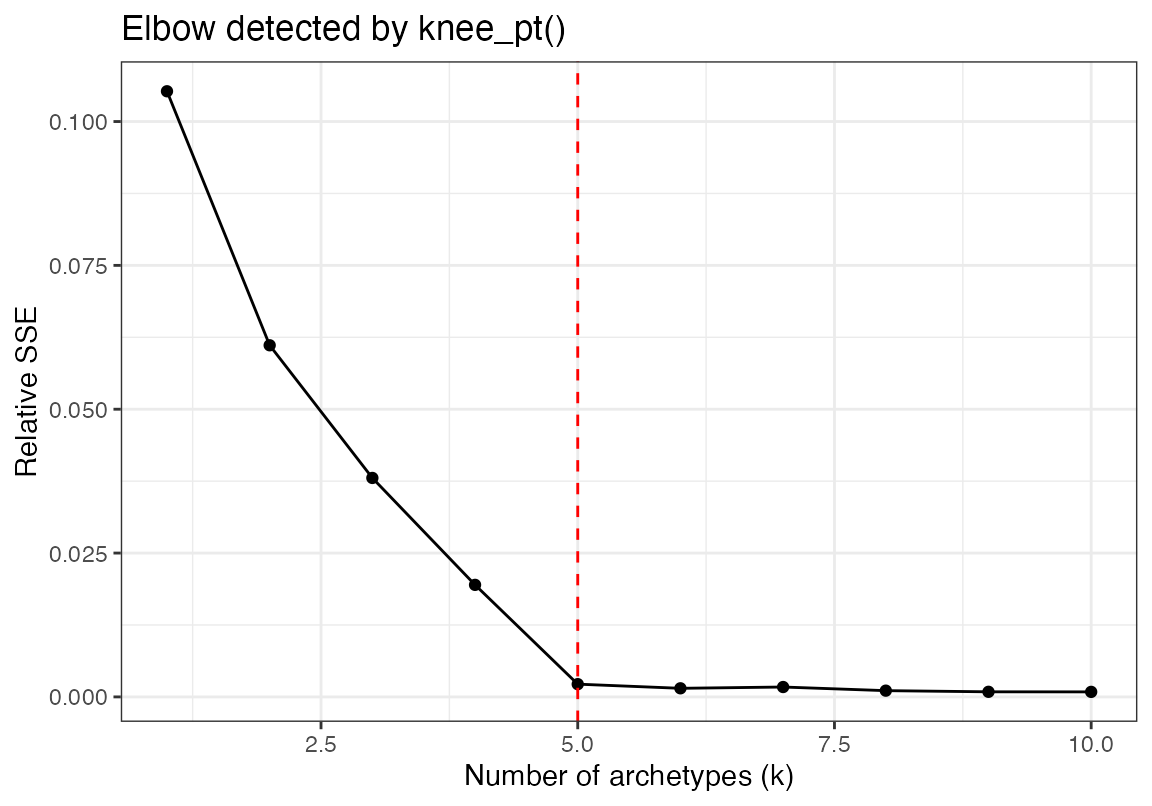
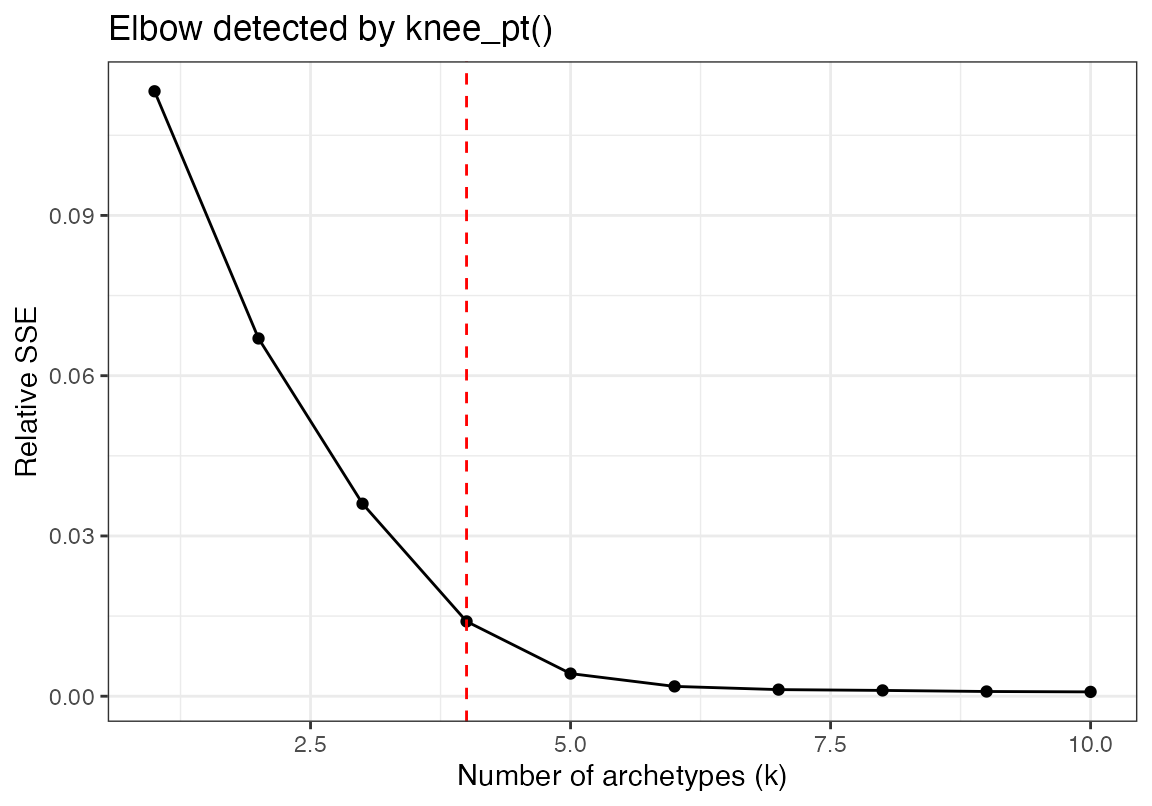
Built site for rustytools@0.0.2:

diff --git a/articles/pcha.html b/articles/pcha.html
@@ -336,7 +336,7 @@ from above</p>
 <p><img src="pcha_files/figure-html/unnamed-chunk-3-1.png" width="100%"></p>
 <div class="sourceCode" id="cb5"><pre class="downlit sourceCode r">
 <code class="sourceCode R"><span><span class="fu"><a href="https://rdrr.io/r/base/cat.html" class="external-link">cat</a></span><span class="op">(</span><span class="st">"Optimal number of archetypes ="</span>, <span class="va">kp</span><span class="op">$</span><span class="va">knee_x</span>, <span class="st">"\n"</span><span class="op">)</span></span></code></pre></div>
-<pre><code><span><span class="co">## Optimal number of archetypes = 5</span></span></code></pre>
+<pre><code><span><span class="co">## Optimal number of archetypes = 4</span></span></code></pre>
 <div class="section level3">
 <h3 id="what-does-this-look-like-in-single-cell-rna-sequencing-data">What does this look like in single cell RNA sequencing data<a class="anchor" aria-label="anchor" href="#what-does-this-look-like-in-single-cell-rna-sequencing-data"></a>
 </h3>
@@ -407,7 +407,7 @@ from above</p>
 <p><img src="pcha_files/figure-html/unnamed-chunk-6-2.png" width="100%"></p>
 <div class="sourceCode" id="cb14"><pre class="downlit sourceCode r">
 <code class="sourceCode R"><span><span class="fu"><a href="https://rdrr.io/r/base/cat.html" class="external-link">cat</a></span><span class="op">(</span><span class="st">"Optimal number of archetypes ="</span>, <span class="va">kp</span><span class="op">$</span><span class="va">knee_x</span>, <span class="st">"\n"</span><span class="op">)</span></span></code></pre></div>
-<pre><code><span><span class="co">## Optimal number of archetypes = 3</span></span></code></pre>
+<pre><code><span><span class="co">## Optimal number of archetypes = 5</span></span></code></pre>
 <div class="sourceCode" id="cb16"><pre class="downlit sourceCode r">
 <code class="sourceCode R"><span><span class="va">noc</span> <span class="op">&lt;-</span> <span class="fl">3</span></span>
 <span><span class="va">res</span> <span class="op">&lt;-</span> <span class="fu"><a href="../reference/pcha.html">pcha</a></span><span class="op">(</span><span class="va">X</span>, noc <span class="op">=</span> <span class="va">noc</span><span class="op">)</span> </span>
